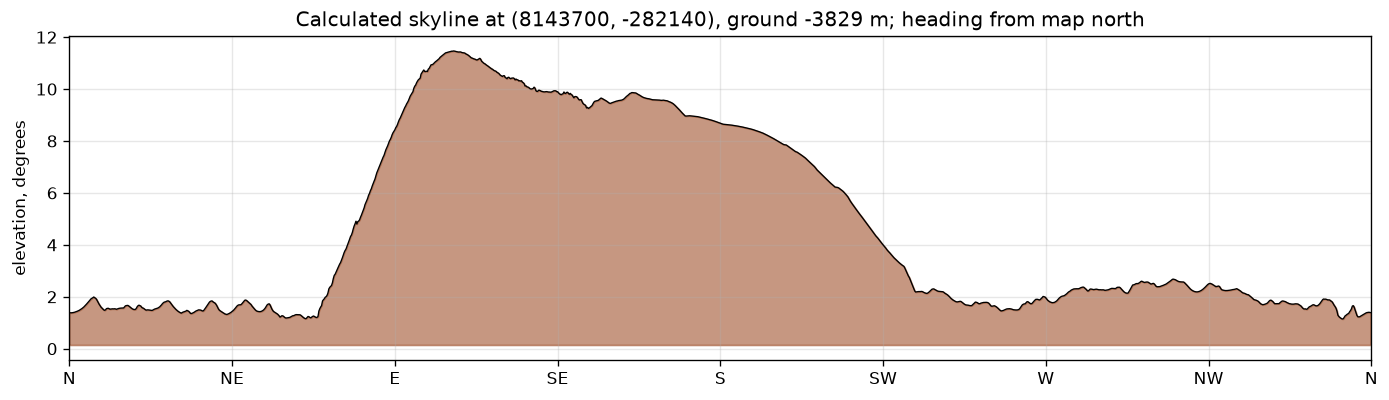
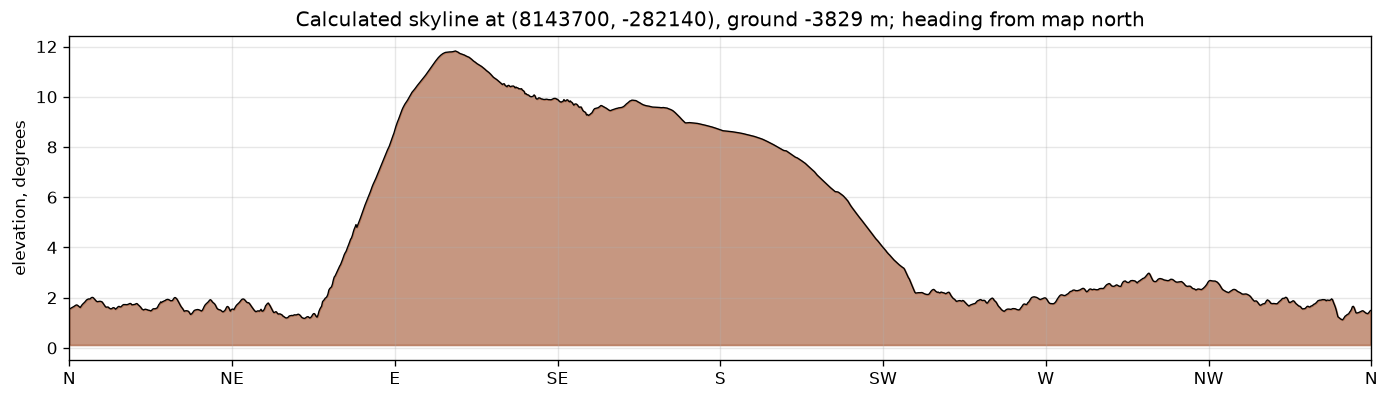
feat: far skyline from the 200 m HRSC and MOLA blend (#28)

diff --git a/locate/horizon/sources.py b/locate/horizon/sources.py
@@ -4,14 +4,16 @@ Three tiers, finest first:
 
 - the 1 m Gale terrain, in a window round the walk area, for the near skyline;
 - a 10 m copy of the whole Gale file (averaged), for the middle distance;
-- MOLA at 463 m for everything beyond the Gale file: the top of Mount Sharp
-  and most of the crater rim.
+- the HRSC and MOLA blended terrain at 200 m for everything beyond the Gale
+  file: the top of Mount Sharp and most of the crater rim.
 
-Both files are equirectangular on the 3,396,190 m sphere with true scale at
-the equator, the same frame as the site map, so no reprojection is needed.
-MOLA is shifted by the median height difference where the two overlap, so
-the two sources join without a step. The 10 m copy and the MOLA crop are
-cached next to the grid, since reading the whole 1 m file takes minutes.
+All are on the 3,396,190 m sphere. The Gale file is equirectangular with true
+scale at the equator, the same frame as the site map; the blended crop is in
+degrees of longitude and latitude, which on that sphere is the same frame
+scaled by 59,274.7 m per degree, so no resampling is needed. The far tier is
+shifted by the median height difference where it overlaps the Gale file, so
+the two join without a step. The 10 m copy and the far crop are cached next
+to the grid, since reading the whole 1 m file takes minutes.
 """
 
 from collections.abc import Callable
@@ -24,45 +26,71 @@ from rasterio.enums import Resampling
 from rasterio.windows import Window, from_bounds
 
 from contracts.models.common import Bounds
-from locate.horizon.render import Raster, Terrain, Tier
+from locate.horizon.render import MARS_RADIUS_M, Raster, Terrain, Tier
 
 GALE_DEM = "MSL_Gale_DEM_Mosaic_1m_v3.tif"
-MOLA_DEM = "Mars_MGS_MOLA_DEM_mosaic_global_463m.tif"
+FAR_DEM = "terrain/Gale_HRSC_MOLA_BlendDEM_200mp_v2_crop.tif"
 MID_RES_M = 10.0
 NEAR_REACH_M = 1_000.0
 FAR_REACH_M = 120_000.0
+METRES_PER_DEGREE = MARS_RADIUS_M * np.pi / 180
 
 
 @dataclass(frozen=True)
 class GaleTerrain:
     terrain: Terrain
-    mola_offset_m: float
-    """Added to MOLA heights to join them to the Gale terrain."""
+    far_offset_m: float
+    """Added to the far tier's heights to join them to the Gale terrain."""
     tier_res_m: tuple[float, ...]
 
 
 def load_gale_terrain(data_root: Path, walk_area: Bounds, cache_dir: Path) -> GaleTerrain:
-    near = _read_window(data_root / GALE_DEM, _grow(walk_area, NEAR_REACH_M))
+    near = read_heights(data_root / GALE_DEM, _grow(walk_area, NEAR_REACH_M))
     mid = _cached(
         cache_dir / f"gale-{MID_RES_M:.0f}m.npz", lambda: _read_decimated(data_root / GALE_DEM)
     )
-    far = _grow(walk_area, FAR_REACH_M)
-    mola = _cached(
-        cache_dir / f"mola-{far.min_x:.0f}_{far.min_y:.0f}_{far.max_x:.0f}_{far.max_y:.0f}.npz",
-        lambda: _read_window(data_root / MOLA_DEM, far),
+    reach = _grow(walk_area, FAR_REACH_M)
+    far = _cached(
+        cache_dir
+        / f"far-200m-{reach.min_x:.0f}_{reach.min_y:.0f}_{reach.max_x:.0f}_{reach.max_y:.0f}.npz",
+        lambda: read_heights(data_root / FAR_DEM, reach),
     )
-    offset = mola_offset(mid, mola)
-    mola = Raster(mola.heights + np.float32(offset), mola.left, mola.top, mola.res)
-    terrain = Terrain([Tier(near, NEAR_REACH_M), Tier(mid), Tier(mola)])
-    return GaleTerrain(terrain, offset, (near.res, mid.res, mola.res))
+    offset = height_offset(mid, far)
+    far = Raster(far.heights + np.float32(offset), far.left, far.top, far.res)
+    terrain = Terrain([Tier(near, NEAR_REACH_M), Tier(mid), Tier(far)])
+    return GaleTerrain(terrain, offset, (near.res, mid.res, far.res))
 
 
-def mola_offset(gale: Raster, mola: Raster) -> float:
-    """Median of Gale minus MOLA height at the MOLA cells the Gale file covers."""
-    rows, cols = np.indices(mola.heights.shape)
-    x = mola.left + (cols.ravel() + 0.5) * mola.res
-    y = mola.top - (rows.ravel() + 0.5) * mola.res
-    diff = gale.sample(x, y) - mola.heights.ravel()
+def read_heights(path: Path, bounds: Bounds) -> Raster:
+    """Heights inside bounds (map metres), as a raster in map metres.
+
+    Works for files in the site's equirectangular metres and for files in
+    degrees on the same sphere.
+    """
+    with rasterio.open(path) as src:
+        scale = METRES_PER_DEGREE if src.crs.is_geographic else 1.0
+        window = from_bounds(
+            bounds.min_x / scale,
+            bounds.min_y / scale,
+            bounds.max_x / scale,
+            bounds.max_y / scale,
+            src.transform,
+        )
+        window = window.round_offsets().round_lengths()
+        window = window.intersection(Window(0, 0, src.width, src.height))
+        heights = src.read(1, window=window, masked=True).astype(np.float32).filled(np.nan)
+        transform = src.window_transform(window)
+    return Raster(
+        heights, left=transform.c * scale, top=transform.f * scale, res=transform.a * scale
+    )
+
+
+def height_offset(gale: Raster, other: Raster) -> float:
+    """Median of Gale minus the other height at the other's cells the Gale file covers."""
+    rows, cols = np.indices(other.heights.shape)
+    x = other.left + (cols.ravel() + 0.5) * other.res
+    y = other.top - (rows.ravel() + 0.5) * other.res
+    diff = gale.sample(x, y) - other.heights.ravel()
     return float(np.nanmedian(diff))
 
 
@@ -73,16 +101,6 @@ def _grow(bounds: Bounds, margin_m: float) -> Bounds:
         max_x=bounds.max_x + margin_m,
         max_y=bounds.max_y + margin_m,
     )
-
-
-def _read_window(path: Path, bounds: Bounds) -> Raster:
-    with rasterio.open(path) as src:
-        window = from_bounds(bounds.min_x, bounds.min_y, bounds.max_x, bounds.max_y, src.transform)
-        window = window.round_offsets().round_lengths()
-        window = window.intersection(Window(0, 0, src.width, src.height))
-        heights = src.read(1, window=window, masked=True).astype(np.float32).filled(np.nan)
-        transform = src.window_transform(window)
-    return Raster(heights, left=transform.c, top=transform.f, res=transform.a)
 
 
 def _read_decimated(path: Path) -> Raster:

diff --git a/locate/horizon/grid.py b/locate/horizon/grid.py
@@ -5,7 +5,7 @@ skyline and cache it in $REDMARK_DATA/gale/horizon/:
 
 - grid.npz: xs, ys (map metres), azimuths_deg, ground_m (ground height at each
   spot) and elevation_deg[iy, ix, iaz], the horizon elevation in degrees;
-- grid-meta.json: spacing, ray settings, computing time, the MOLA height
+- grid-meta.json: spacing, ray settings, computing time, the far-terrain height
   offset, and the script, commit and input checksums that wrote it.
 
 Run with `uv run python -m locate.horizon.grid`. The walk area comes from
@@ -25,7 +25,7 @@ import yaml
 from contracts.models.site import SiteConfig
 from contracts.paths import REPO_ROOT, data_root
 from locate.horizon.render import skyline
-from locate.horizon.sources import FAR_REACH_M, GALE_DEM, MOLA_DEM, load_gale_terrain
+from locate.horizon.sources import FAR_DEM, FAR_REACH_M, GALE_DEM, load_gale_terrain
 
 SPACING_M = 100.0
 AZIMUTH_STEP_DEG = 0.25
@@ -52,14 +52,16 @@ def spots_along(low: float, high: float, spacing: float) -> np.ndarray:
 def main() -> None:
     site = SiteConfig.model_validate(yaml.safe_load((REPO_ROOT / "sites/gale.yaml").read_text()))
     root = data_root()
-    missing = [name for name in (GALE_DEM, MOLA_DEM) if not (root / name).exists()]
+    missing = [name for name in (GALE_DEM, FAR_DEM) if not (root / name).exists()]
     if missing:
         sys.exit(f"{', '.join(missing)} not in {root}: set REDMARK_DATA to the data folder")
     out_dir = root / "gale" / "horizon"
     started = time.perf_counter()
     gale = load_gale_terrain(root, site.bounds, out_dir / "cache")
     loaded = time.perf_counter()
-    print(f"terrain loaded in {loaded - started:.0f} s; MOLA offset {gale.mola_offset_m:+.1f} m")
+    print(
+        f"terrain loaded in {loaded - started:.0f} s; far-terrain offset {gale.far_offset_m:+.1f} m"
+    )
 
     xs = spots_along(site.bounds.min_x, site.bounds.max_x, SPACING_M)
     ys = spots_along(site.bounds.min_y, site.bounds.max_y, SPACING_M)
@@ -100,7 +102,7 @@ def main() -> None:
         "ray_samples": int(distances.size),
         "ray_reach_m": [NEAREST_M, float(distances[-1])],
         "tier_res_m": list(gale.tier_res_m),
-        "mola_offset_m": round(gale.mola_offset_m, 2),
+        "far_offset_m": round(gale.far_offset_m, 2),
         "missing_directions": int(np.isnan(elevation).sum()),
         "terrain_load_s": round(loaded - started, 1),
         "compute_s": round(finished - loaded, 1),
@@ -108,7 +110,7 @@ def main() -> None:
             "script": "locate/horizon/grid.py",
             "commit": _commit(),
             "inputs": [
-                {"path": name, "sha256": _sha256(root / name)} for name in (GALE_DEM, MOLA_DEM)
+                {"path": name, "sha256": _sha256(root / name)} for name in (GALE_DEM, FAR_DEM)
             ]
             + [{"path": "sites/gale.yaml", "sha256": _sha256(REPO_ROOT / "sites/gale.yaml")}],
         },

diff --git a/locate/horizon/tests/test_horizon_sources.py b/locate/horizon/tests/test_horizon_sources.py
@@ -1,0 +1,38 @@
+"""Reading terrain files into map metres. Expected values are worked by hand."""
+
+import numpy as np
+import pytest
+import rasterio
+from rasterio.transform import from_origin
+
+from contracts.models.common import Bounds
+from locate.horizon.sources import read_heights
+
+
+def test_a_terrain_file_in_degrees_comes_back_in_map_metres(tmp_path):
+    # 4 x 4 cells of 0.5°, north-west corner at 137°E, 4°S, on the Mars 2000 sphere.
+    # One degree is 2π × 3,396,190 m / 360 = 59,274.70 m, so the corner is at
+    # (8,120,633.6, -237,098.8) map metres and a cell is 29,637.35 m.
+    path = tmp_path / "lonlat.tif"
+    heights = np.arange(16, dtype=np.int16).reshape(4, 4)
+    with rasterio.open(
+        path,
+        "w",
+        driver="GTiff",
+        width=4,
+        height=4,
+        count=1,
+        dtype="int16",
+        crs="+proj=longlat +R=3396190 +no_defs",
+        transform=from_origin(137.0, -4.0, 0.5, 0.5),
+        nodata=-32768,
+    ) as dst:
+        dst.write(heights, 1)
+    everything = Bounds(min_x=8.0e6, min_y=-400_000.0, max_x=8.3e6, max_y=-200_000.0)
+
+    raster = read_heights(path, everything)
+
+    assert raster.left == pytest.approx(8_120_633.6, abs=0.1)
+    assert raster.top == pytest.approx(-237_098.8, abs=0.1)
+    assert raster.res == pytest.approx(29_637.35, abs=0.01)
+    assert raster.heights.tolist() == heights.tolist()

diff --git a/locate/horizon/README.md b/locate/horizon/README.md
@@ -6,9 +6,9 @@ The horizon grid and skyline matcher at Gale. Writes to `results/horizon/`.
 
 ## Horizon grid (P3-01)
 
-`uv run python -m locate.horizon.grid` calculates the 360° skyline (horizon elevation in every direction from map north) for a square grid of spots across the walk area in `sites/gale.yaml`, and caches it in `$REDMARK_DATA/gale/horizon/grid.npz` with `grid-meta.json` (settings, timings, MOLA offset, provenance). `uv run python -m locate.horizon.plot_grid` then draws the overlays in `results/horizon/overlays/`.
+`uv run python -m locate.horizon.grid` calculates the 360° skyline (horizon elevation in every direction from map north) for a square grid of spots across the walk area in `sites/gale.yaml`, and caches it in `$REDMARK_DATA/gale/horizon/grid.npz` with `grid-meta.json` (settings, timings, far-terrain offset, provenance). `uv run python -m locate.horizon.plot_grid` then draws the overlays in `results/horizon/overlays/`.
 
-- **Terrain, finest first:** the 1 m Gale terrain within 1 km of the spot; a 10 m averaged copy of the whole Gale file; MOLA 463 m beyond it (the top of Mount Sharp and most of the crater rim), shifted by the median Gale-minus-MOLA height where they overlap. Rays reach 120 km.
+- **Terrain, finest first:** the 1 m Gale terrain within 1 km of the spot; a 10 m averaged copy of the whole Gale file; the HRSC and MOLA blended terrain at 200 m beyond it (the top of Mount Sharp and most of the crater rim), shifted by the median Gale-minus-blend height where they overlap. The blend is a crop in degrees, read straight into map metres (59,274.7 m per degree on the same sphere). Rays reach 120 km.
 - **Curvature:** every sample sits on the 3,396,190 m sphere, so ground 60 km away is about 0.5° lower than on a flat map.
 - **Eye height:** 1.9 m, Curiosity's Navcam.
 
@@ -18,5 +18,5 @@ Last run (stub walk area, 4 × 4 km; a new walk area is a rerun, not a code chan
 | --- | --- |
 | Grid spacing | 100 m, 41 × 41 = 1,681 spots |
 | Directions | every 0.25° (1,440 per spot), 1,664 samples per ray from 5 m to 120 km |
-| MOLA offset | −11.15 m |
-| Computing time | 205 s on one laptop core, plus 2 s to load cached terrain (about 30 s the first time) |
+| Far-terrain offset | −14.58 m |
+| Computing time | 208 s on one laptop core, plus 2 s to load cached terrain (about 30 s the first time) |
